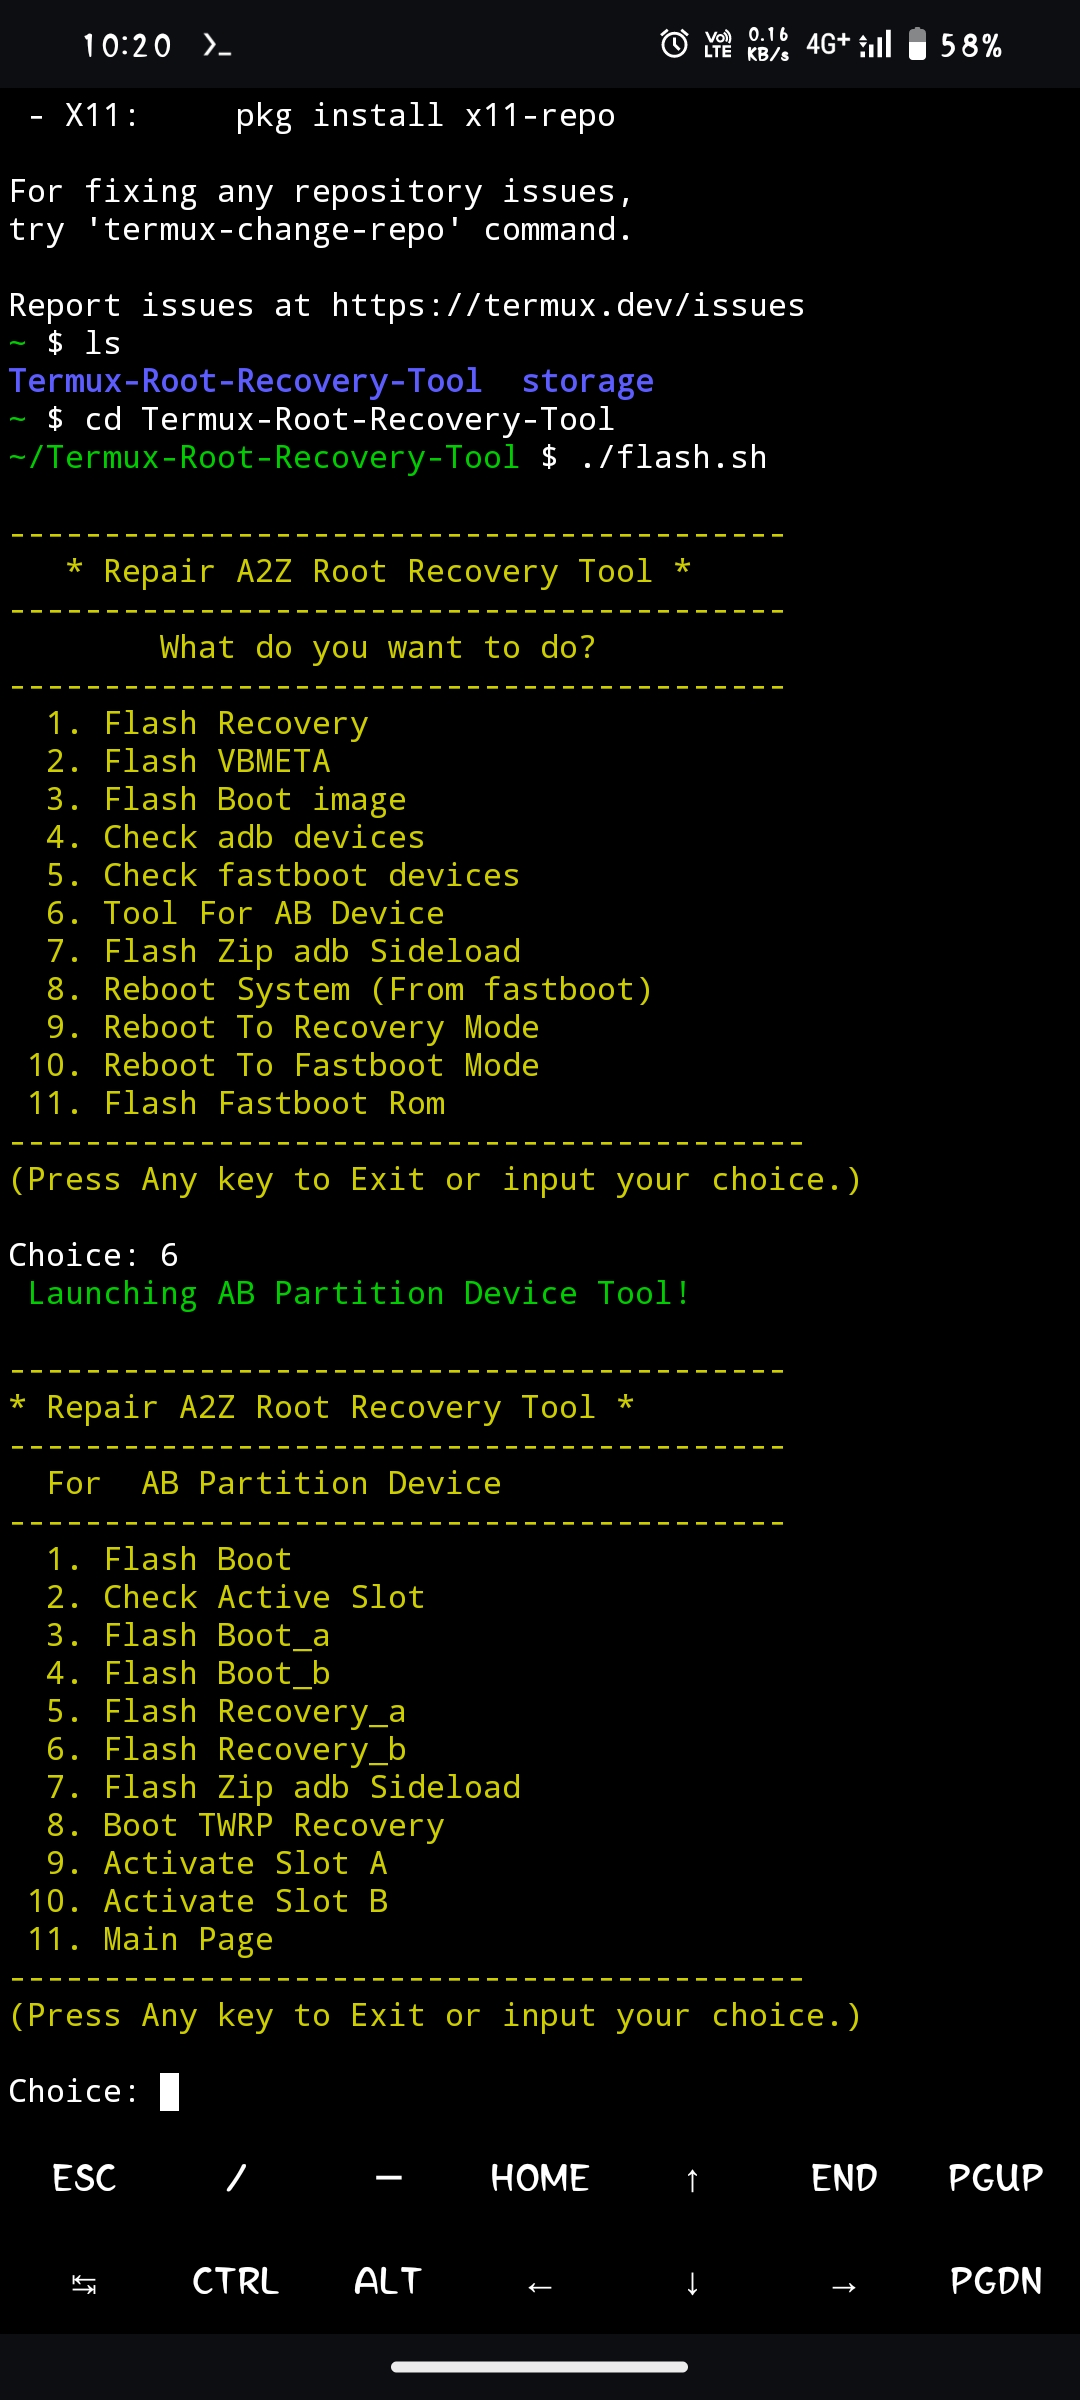
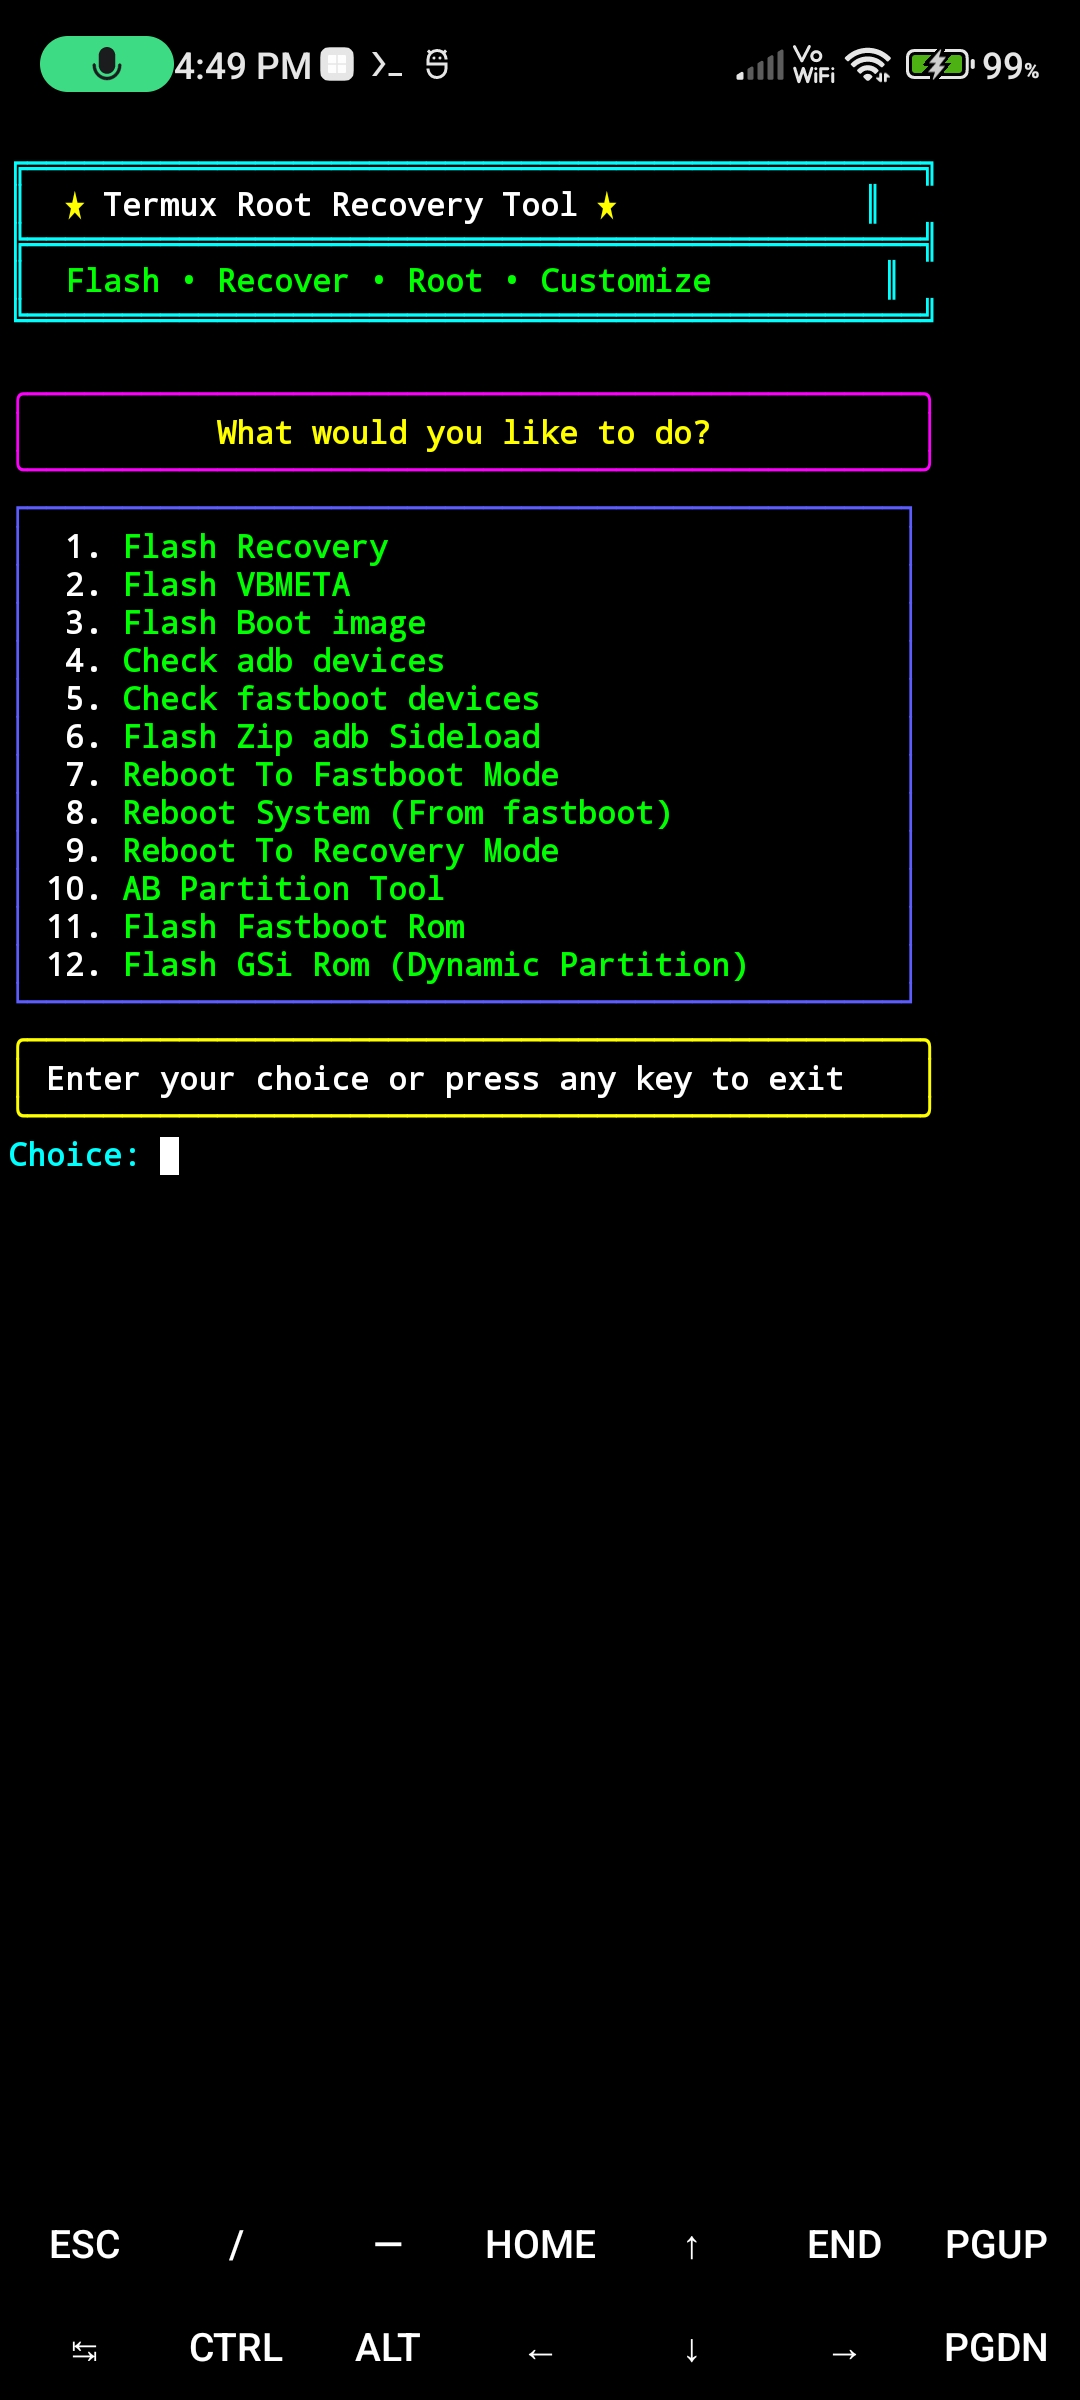
Revamp README.md to enhance clarity and detail. Expanded tool description, added features and requirements sections, and improved installation instructions. Updated usage guidelines and included credits and licensing information. Updated TRRT.jpg for better visual representation.

diff --git a/README.md b/README.md
@@ -1,11 +1,40 @@
 <img align="right" src="TRRT.jpg" width="350" alt="Termux Root Recovery Tool">
 
-# Termux-Root-Recovery-Tool
-This tool install GSi rom, Fastboot Rom, install Twrp Recovery, Boot.img, vbmeta.img Magisk Root in bootloader unlocked devices only
+# Termux Root Recovery Tool
 
-# installation :- 
+A powerful tool for Android system operations through Termux. This tool enables you to flash GSI ROMs, Fastboot ROMs, TWRP Recovery, boot images, vbmeta images, and more - all without needing a computer, just your Android device with Termux.
 
-```Install``` [termux](https://f-droid.org/repo/com.termux_118.apk) ```&``` [Termux-api](https://f-droid.org/repo/com.termux.api_51.apk) ```apk```
+## Features
+
+- 🔄 Flash recovery, boot, and vbmeta images
+- 📱 Support for A/B partition devices 
+- 🌐 GSI ROM flashing capabilities
+- 📦 Stock ROM flashing utility
+- 🛠 ADB sideload functionality
+- 🚀 Device reboot options (fastboot, recovery, system)
+- 🔍 Check device connections (ADB and fastboot)
+- 💾 Partition management (for dynamic partitions)
+- 🔠 Tab completion for file paths
+- 🎨 Beautiful and intuitive user interface
+
+## Requirements
+
+- Android device with unlocked bootloader
+- [Termux](https://f-droid.org/repo/com.termux_118.apk) and [Termux-API](https://f-droid.org/repo/com.termux.api_51.apk) installed
+- USB debugging enabled in developer options
+- Proper USB connection if flashing external device
+
+## Installation
+
+### 1. Install Termux and Termux-API
+
+Download and install both applications from F-Droid:
+- [Termux](https://f-droid.org/repo/com.termux_118.apk)
+- [Termux-API](https://f-droid.org/repo/com.termux.api_51.apk)
+
+### 2. Set up Termux environment
+
+Update packages and set up storage access:
 ```console
 yes | pkg update && upgrade
 ```
@@ -19,36 +48,104 @@ pkg install termux-api
 yes | pkg install git
 ```
 
-# Installation Termux-Root-Recovery-Tool :-
+### 3. Install Termux Root Recovery Tool
 
+Clone the repository and set execution permissions:
 ```console
 git clone https://github.com/Ishu43642/Termux-Root-Recovery-Tool.git
 ```
-
 ```console
 cd Termux-Root-Recovery-Tool
 ```
 ```console
-chmod +x flash.sh && chmod +x flash-stock-rom.sh && chmod +x flashAB.sh && chmod +x gsi-flash.sh
+chmod +x flash.sh && chmod +x flash-stock-rom.sh && chmod +x flashAB.sh && chmod +x gsi-flash.sh && chmod +x installadb.sh
 ```
-# installation Termux-Adb :-
-[Termux-Adb Fastboot](https://github.com/nohajc/termux-adb) 
 
-```credit :- Termux-Adb``` [nohajc](https://github.com/nohajc)
+### 4. Install ADB and Fastboot in Termux
 
+Run the installer script:
 ```console
 bash installadb.sh
 ```
 
-# Run Tool 
+Credit: ADB/Fastboot for Termux by [nohajc](https://github.com/nohajc/termux-adb)
 
+## Usage
+
+### Starting the Tool
+
+Launch the main interface:
 ```console
 ./flash.sh
 ```
 
-# For flashing Fastboot rom
-1.Rename your fastboot rom folder to  ```stock-rom```
+### Main Features
 
-2.Copy ```stock-rom``` folder to  Download Folder Under internal storage 
+The tool provides a menu-driven interface with the following options:
 
- ```Now you can use Fastboot Rom Flash Option```
+1. **Flash Recovery** - Flash recovery images to your device
+2. **Flash VBMETA** - Flash vbmeta images with verity disabled
+3. **Flash Boot Image** - Flash boot images (useful for Magisk root)
+4. **Check ADB Devices** - List connected devices in ADB mode
+5. **Check Fastboot Devices** - List connected devices in fastboot mode
+6. **Flash ZIP via ADB Sideload** - Sideload custom ROMs or mods
+7. **Reboot to Fastboot Mode** - Reboot the device to fastboot
+8. **Reboot System** - Reboot device to normal system
+9. **Reboot to Recovery Mode** - Reboot device to recovery
+10. **AB Partition Tool** - Access A/B partition specific operations
+11. **Flash Fastboot ROM** - Flash full stock ROMs
+12. **Flash GSI ROM** - Flash Generic System Images
+
+### A/B Partition Tool
+
+For devices with A/B partition scheme, specialized options:
+
+- Flash boot to specific slots (A or B)
+- Flash recovery to specific slots
+- Boot directly to TWRP without flashing
+- Check and switch active slots
+
+### GSI Flashing
+
+Tools for GSI ROM installation:
+
+- Check fastboot device connectivity
+- Flash VBMETA with verification disabled
+- Switch between fastboot and fastbootd modes
+- Check userspace compatibility
+- Erase system partition
+- Delete logical partitions
+- Flash GSI system images
+
+### Stock ROM Flashing
+
+For flashing complete stock firmware packages:
+
+1. Rename your fastboot ROM folder to `stock-rom`
+2. Copy the `stock-rom` folder to the Download folder in your internal storage
+3. Select the "Flash Fastboot ROM" option in the main menu
+4. Choose from available flashing options:
+   - Flash without locking bootloader
+   - Flash and lock bootloader
+   - Flash except data storage
+
+## File Navigation
+
+The tool supports tab completion for file paths, making it easy to navigate to your ROM files, images, or other files needed for operations.
+
+## Notes
+
+- All operations require an unlocked bootloader
+- Some operations may void your warranty
+- Always have backups before flashing anything
+- The tool works best with a proper USB connection
+- For some devices, you may need specific drivers
+
+## Credits
+
+- ADB/Fastboot for Termux: [nohajc](https://github.com/nohajc/termux-adb)
+- Original Tool: [Ishu43642](https://github.com/Ishu43642)
+
+## License
+
+This project is available as open source under the terms of the MIT License.
